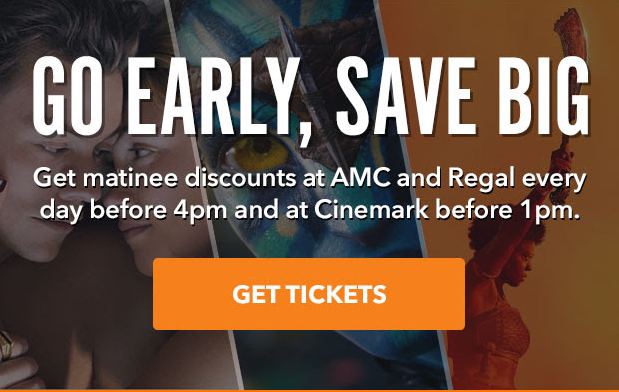
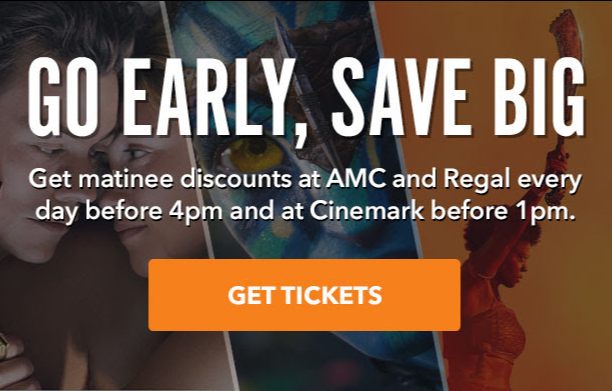
Add files via upload

diff --git a/index.html b/index.html
@@ -4,7 +4,7 @@
 	<meta http-equiv="Content-Type" content="text/html; charset=utf-8">
 	<meta http-equiv="X-UA-Compatible" content="IE=edge">
   <meta name="viewport" content="width=device-width, initial-scale=1.0">
-  <title>HTML Email Boilerplate</title>
+  <title>Movie Newsletter Email</title>
   <script src="https://kit.fontawesome.com/02ea88b81a.js" crossorigin="anonymous"></script>
   <style type="text/css">
    	@import url('https://fonts.googleapis.com/css2?family=Lato:wght@100;300;400;700;900&display=swap');
@@ -137,14 +137,13 @@
           <td style="padding:0;">
             <table width="100%" style="border-spacing:0;" role="presentation">
               <tr>
-                <td style="background-color:rgb(75, 74, 74)">
+                <td style="background-color:rgb(75, 74, 74); width:65%; border-right:solid white 0.5px;">
                   <a href="#" target="_blank">
-                    <img src="https://i.ibb.co/PG0kDqv/Fandango-Logo.png" alt="Fandango logo" width="300px">
+                    <img style="Margin:0; padding:20px 0 20px 25px;" src="https://i.ibb.co/vsWPJXz/Fandango-Logo.png" alt="Fandango logo" width="300px">
                   </a>
                 </td>
-              </tr>
-              <tr>
-                <td style="background-color: #ffffff;">
+                <td style="Margin:0; padding:0 30px 0 0; text-align:right; background-color: rgb(75, 74, 74); color:white; width:35%;">
+                  <i class="fa-solid fa-circle-user" style="color:white;"></i>
                   <span style="text-transform:uppercase;">My account</span>
                 </td>
               </tr>
@@ -157,36 +156,62 @@
           <td style="padding:0;">
             <table width="100%" style="border-spacing:0;" role="presentation">
               <tr>
-                <td height="3" style="background-color: #21c6b8;">
-                  <a href="">
-                    <img src="https://i.ibb.co/PhG4Ytx/fandango-hero-image.png" alt="">
+                <td width="100%">
+                  <a href="#">
+                    <img src="https://i.ibb.co/f9pfQFT/fandango-hero-image.png" alt="Images of movies with the words, 'Go early, save big.">
                   </a>
                 </td>
-              </tr>
-              <tr>
-                <td height="10" style="background-color: #ffffff;"></td>
-              </tr>
-              <tr>
-                <td height="3" style="background-color: #21c6b8;"></td>
               </tr>
             </table>
           </td>
         </tr>
-    
+
         <!-- row 5 -->
         <tr>
           <td style="padding:0;">
             <table width="100%" style="border-spacing:0;" role="presentation">
               <tr>
-                <td height="3" style="background-color: #21c6b8;"></td>
+                <td height="5" style="background-color: orange;">
+                </td>
               </tr>
+            </table>
+          </td>
+        </tr>
+
+    
+        <!-- row 6 -->
+        <tr>
+          <td style="padding:0;">
+            <table width="100%" style="border-spacing:0;" role="presentation">
               <tr>
-                <td height="10" style="background-color: #ffffff;"></td>
+                <td>
+                </td>
               </tr>
+            </table>
+          </td>
+        </tr>
+
+        <!-- row  -->
+        <tr>
+          <td style="padding:0;">
+            <table width="100%" style="border-spacing:0;" role="presentation">
               <tr>
-                <td height="3" style="background-color: #21c6b8;"></td>
+                <td>
+                </td>
               </tr>
-          </table>
+            </table>
+          </td>
+        </tr>
+
+        <!-- row  -->
+        <tr>
+          <td style="padding:0;">
+            <table width="100%" style="border-spacing:0;" role="presentation">
+              <tr>
+                <td>
+                </td>
+              </tr>
+            </table>
           </td>
         </tr>
 
@@ -212,7 +237,6 @@
             <table width="100%" style="border-spacing:0;" role="presentation">
               <tr>
                 <td height="5" style="background-color: orange;">
-                  
                 </td>
               </tr>
             </table>
